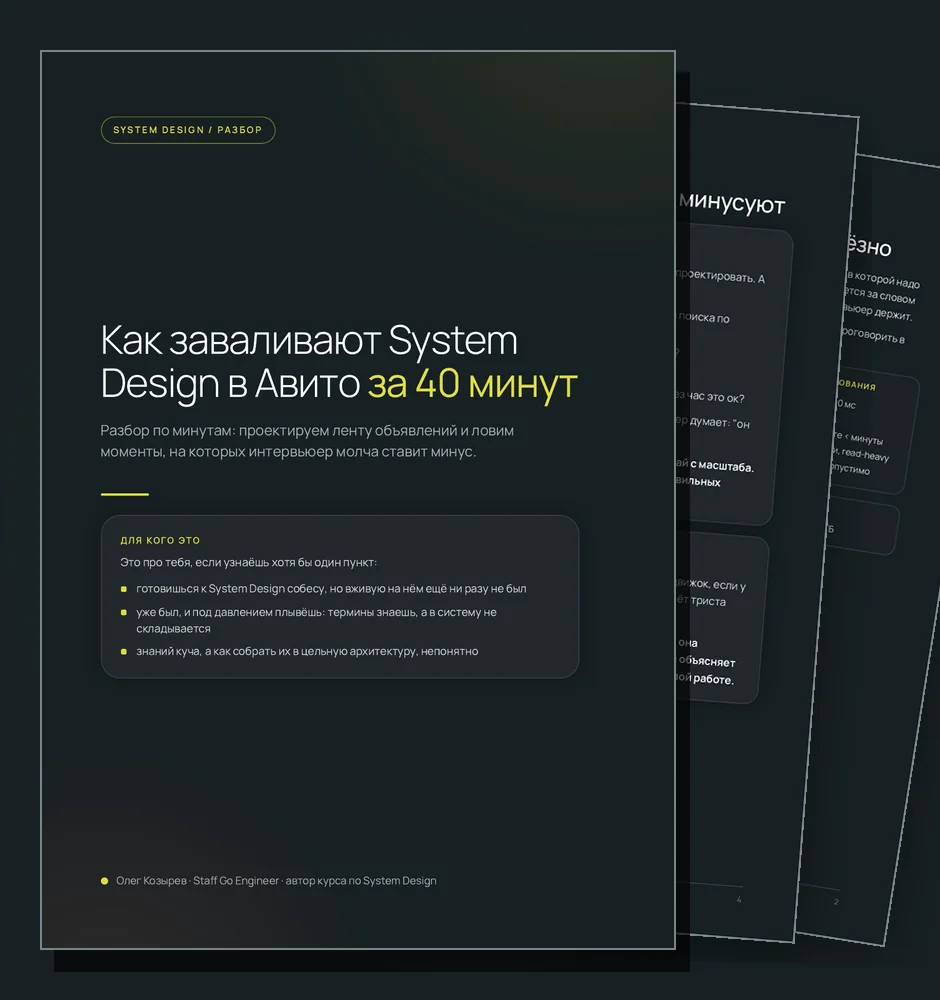
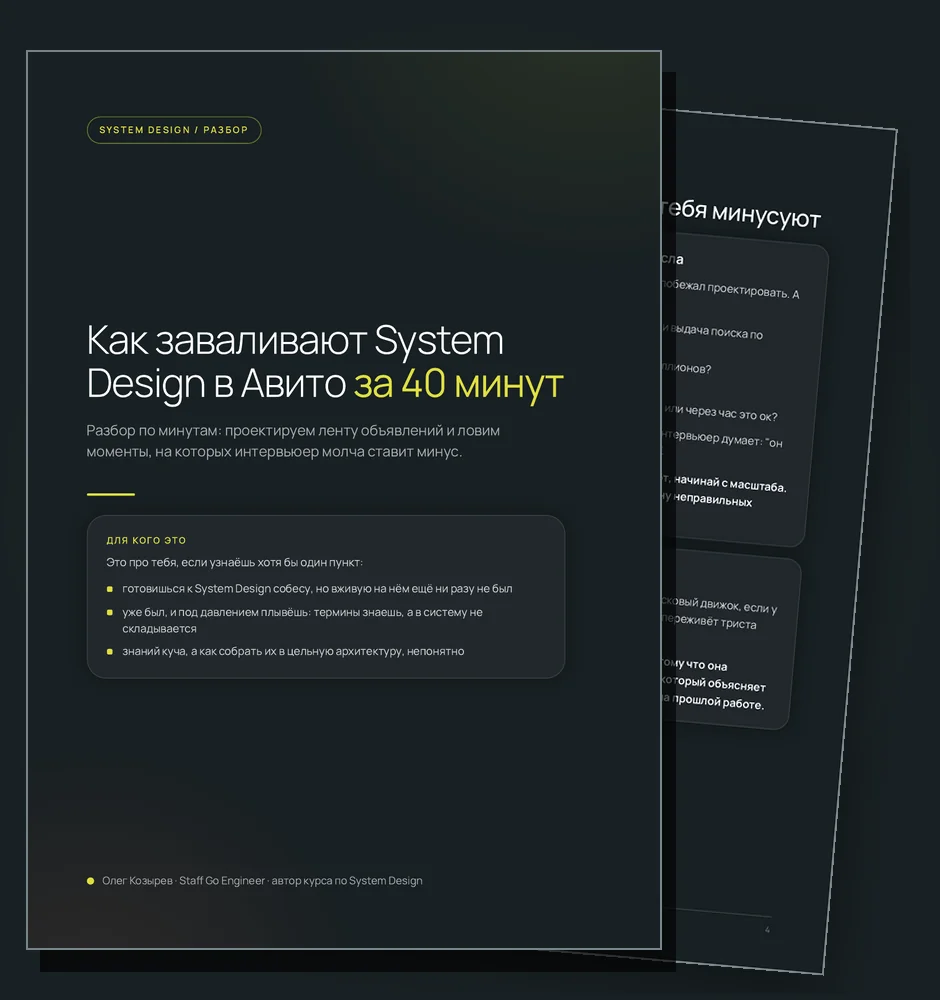
Выравнивание результатов, веер из двух страниц и SEO-обвязка
Результаты в карточках прижаты к низу: колонка текста тянется
на всю высоту, поэтому у соседей по ряду строки встают на одном
уровне независимо от длины описания.

Веер: третья страница упиралась в край вертикального кадра
и обрезалась. Осталось две, вторая сдвинута правее, текста
на ней видно больше.

Подзаголовок первого экрана разбит на два предложения: одной
строкой он читался тяжело. Перенос показывается только
на широких экранах.

SEO. Заголовок вкладки переписан под поисковый запрос, крючок
переехал в og-теги, где решает CTR при отправке ссылки.
Описание уложено в 157 символов. Добавлены robots и хлебные
крошки, микроразметка собрана в граф: LearningResource с темами
и аудиторией, Person с профилями, BreadcrumbList. og-картинка
пересобрана под новый первый экран, старая осталась от
горизонтального веера.

Обновлены дата в sitemap, описания в llms.txt и llms-full.txt,
карточка в каталоге.

diff --git a/sd-anatomy/index.html b/sd-anatomy/index.html
@@ -20,25 +20,30 @@
   <!-- /Yandex.Metrika counter -->
   <!-- TGTrack: Откуда Подписки -->
   <script src="https://api.tgtrack.ru/API/landing_script/v1/?linkID=682732c86bc8d9&type=ya&counterID=96022201" type="text/javascript" defer></script>
-  <title>Как успешно завалить System Design собес за 40 минут</title>
-  <meta name="description" content="Разбор провального System Design собеса: 7 самых частых ошибок, за которые снижают оценку, и список, чтобы проверить себя. Бесплатно.">
-  <meta name="keywords" content="system design, систем дизайн, собеседование, system design interview, подготовка к собесу, авито, лента объявлений, шардирование, кэш, архитектура, backend">
+  <!-- Заголовок вкладки работает на поиск: в нём запрос, по которому ищут.
+       Крючок из первого экрана живёт в og-тегах, где решает CTR в мессенджерах. -->
+  <title>Разбор System Design собеседования: 7 частых ошибок · бесплатно</title>
+  <meta name="description" content="Бесплатный разбор реального System Design собеседования по минутам: 7 ошибок, из-за которых заваливают секцию, и чек-лист для самопроверки. PDF на 8 страниц.">
+  <meta name="keywords" content="system design собеседование, разбор system design интервью, ошибки на system design, подготовка к секции system design, систем дизайн собес, system design interview на русском, чек-лист system design, capacity planning на собеседовании, backend собеседование">
   <meta name="author" content="Олег Козырев">
+  <meta name="robots" content="index, follow, max-image-preview:large, max-snippet:-1">
   <link rel="icon" href="/favicon.svg" type="image/svg+xml">
   <link rel="canonical" href="https://guide.olezhek28.courses/sd-anatomy/">
-  <meta property="og:title" content="Как успешно завалить System Design собес за 40 минут">
-  <meta property="og:description" content="Разбор провального собеса: 7 самых частых ошибок, за которые снижают оценку, и список, чтобы проверить себя. Бесплатно.">
-  <meta property="og:type" content="website">
+  <meta property="og:title" content="Как успешно завалить System Design собес за 40 минут?">
+  <meta property="og:description" content="Разбор реального собеса в Авито по минутам: 7 ошибок, из-за которых заваливают секцию, и чек-лист проверить себя. Бесплатно.">
+  <meta property="og:type" content="article">
   <meta property="og:url" content="https://guide.olezhek28.courses/sd-anatomy/">
   <meta property="og:image" content="https://guide.olezhek28.courses/sd-anatomy/og-image.jpg">
   <meta property="og:image:width" content="1200">
   <meta property="og:image:height" content="630">
+  <meta property="og:image:alt" content="Разбор System Design собеседования: обложка и страницы PDF">
   <meta property="og:locale" content="ru_RU">
   <meta property="og:site_name" content="Олег Козырев · Гайды">
   <meta name="twitter:card" content="summary_large_image">
-  <meta name="twitter:title" content="Как успешно завалить System Design собес за 40 минут">
-  <meta name="twitter:description" content="Разбор провального собеса: 7 самых частых ошибок, за которые снижают оценку, и список, чтобы проверить себя. Бесплатно.">
+  <meta name="twitter:title" content="Как успешно завалить System Design собес за 40 минут?">
+  <meta name="twitter:description" content="Разбор реального собеса в Авито по минутам: 7 ошибок, из-за которых заваливают секцию, и чек-лист проверить себя. Бесплатно.">
   <meta name="twitter:image" content="https://guide.olezhek28.courses/sd-anatomy/og-image.jpg">
+  <meta name="twitter:image:alt" content="Разбор System Design собеседования: обложка и страницы PDF">
   <link rel="preconnect" href="https://fonts.googleapis.com">
   <link rel="preconnect" href="https://fonts.gstatic.com" crossorigin>
   <link rel="preload" as="image" href="hero.webp" type="image/webp" fetchpriority="high">
@@ -47,27 +52,65 @@
   <script type="application/ld+json">
   {
     "@context": "https://schema.org",
-    "@type": "LearningResource",
-    "name": "Как успешно завалить System Design собес за 40 минут",
-    "description": "Разбор провального System Design собеса: какие требования выяснить, как прикинуть нагрузку, как выглядит схема, 7 частых ошибок и список для самопроверки.",
-    "learningResourceType": "Guide",
-    "educationalLevel": "Intermediate",
-    "isAccessibleForFree": true,
-    "inLanguage": "ru",
-    "url": "https://guide.olezhek28.courses/sd-anatomy/",
-    "image": "https://guide.olezhek28.courses/sd-anatomy/og-image.jpg",
-    "author": {
-      "@type": "Person",
-      "name": "Олег Козырев",
-      "jobTitle": "Staff Engineer",
-      "url": "https://guide.olezhek28.courses"
-    },
-    "offers": {
-      "@type": "Offer",
-      "price": "0",
-      "priceCurrency": "RUB",
-      "availability": "https://schema.org/InStock"
-    }
+    "@graph": [
+      {
+        "@type": "LearningResource",
+        "@id": "https://guide.olezhek28.courses/sd-anatomy/#guide",
+        "name": "Анатомия провалённого System Design собеседования",
+        "alternateName": ["Разбор System Design собеса", "Как заваливают System Design интервью"],
+        "headline": "Как успешно завалить System Design собес за 40 минут",
+        "description": "Разбор реального System Design собеседования по минутам на задаче «спроектируй ленту объявлений»: какие требования выяснить до проектирования, как прикинуть нагрузку, как выглядит ожидаемая схема, 7 ошибок, из-за которых заваливают секцию, и чек-лист для самопроверки.",
+        "learningResourceType": "Guide",
+        "educationalLevel": "Intermediate",
+        "teaches": [
+          "Что выяснить про систему до начала проектирования",
+          "Как прикинуть нагрузку на сервис",
+          "Из каких частей собирается лента объявлений",
+          "Семь ошибок, из-за которых снижают оценку на секции System Design"
+        ],
+        "educationalAudience": {
+          "@type": "EducationalAudience",
+          "educationalRole": "student",
+          "audienceType": "Backend-разработчики уровня middle, готовящиеся к секции System Design"
+        },
+        "inLanguage": "ru",
+        "isAccessibleForFree": true,
+        "url": "https://guide.olezhek28.courses/sd-anatomy/",
+        "image": "https://guide.olezhek28.courses/sd-anatomy/og-image.jpg",
+        "encodingFormat": "application/pdf",
+        "numberOfPages": 8,
+        "author": {"@id": "https://guide.olezhek28.courses/sd-anatomy/#oleg"},
+        "publisher": {"@id": "https://guide.olezhek28.courses/sd-anatomy/#oleg"},
+        "offers": {
+          "@type": "Offer",
+          "price": "0",
+          "priceCurrency": "RUB",
+          "availability": "https://schema.org/InStock"
+        }
+      },
+      {
+        "@type": "Person",
+        "@id": "https://guide.olezhek28.courses/sd-anatomy/#oleg",
+        "name": "Олег Козырев",
+        "alternateName": "Oleg Kozyrev",
+        "jobTitle": "Staff Engineer",
+        "description": "Staff-инженер с 8+ годами коммерческого опыта на Go. Работал в Т-Банке, Авито и Ozon Tech, преподавал в школе Route 256. Проходит и проводит секции System Design.",
+        "knowsAbout": ["System Design", "Go", "Микросервисы", "Архитектура сервисов", "Технические собеседования"],
+        "url": "https://guide.olezhek28.courses/",
+        "sameAs": [
+          "https://t.me/olezhek28go",
+          "https://www.youtube.com/@olezhek28go",
+          "https://www.linkedin.com/in/olezhek28"
+        ]
+      },
+      {
+        "@type": "BreadcrumbList",
+        "itemListElement": [
+          {"@type": "ListItem", "position": 1, "name": "Гайды", "item": "https://guide.olezhek28.courses/"},
+          {"@type": "ListItem", "position": 2, "name": "Разбор System Design собеседования", "item": "https://guide.olezhek28.courses/sd-anatomy/"}
+        ]
+      }
+    ]
   }
   </script>
   <style>
@@ -378,6 +421,14 @@
       align-items: center;
     }
 
+    /* колонка текста тянется на всю высоту карточки: результаты
+       у соседей по ряду выстраиваются на одном уровне */
+    .inside__body {
+      display: flex;
+      flex-direction: column;
+      min-width: 0;
+    }
+
     .inside__title {
       font-size: 19px;
       font-weight: 700;
@@ -393,8 +444,8 @@
       display: flex;
       gap: 10px;
       align-items: baseline;
-      margin-top: 16px;
-      padding-top: 14px;
+      margin-top: auto;
+      padding-top: 16px;
       border-top: 1px solid rgba(223,223,65,0.28);
       font-size: 14px;
       font-weight: 600;
@@ -848,6 +899,7 @@
       .hero { padding: 120px 0 60px; }
       .hero__title { font-size: 28px; }
       .hero__desc { font-size: 14px; }
+      .hero__br { display: none; }
 
 
       .section__title { font-size: 24px; }
@@ -953,7 +1005,7 @@
         <div class="hero__content">
           <div class="hero__badge">Бесплатно</div>
           <h1 class="hero__title">Как успешно завалить System Design собес <span>за&nbsp;40&nbsp;минут?</span></h1>
-          <p class="hero__desc">На&nbsp;реальном собесе в&nbsp;Авито разбери 7&nbsp;ошибок, из-за которых многие заваливают секцию, и&nbsp;проверь, какие делаешь ты</p>
+          <p class="hero__desc">На&nbsp;примере реального собеса в&nbsp;Авито разбери 7&nbsp;ошибок, из-за которых многие заваливают секцию.<br class="hero__br"> И&nbsp;проверь, какие из&nbsp;них совершаешь ты</p>
           <a href="#cta" class="btn btn--primary">Забрать разбор бесплатно</a>
         </div>
         <div class="hero__image">
@@ -1026,7 +1078,7 @@
             </div>
             <span class="viz__cap">нарисовал 3 части, а&nbsp;их&nbsp;<b>больше семи</b></span>
           </div>
-          <div>
+          <div class="inside__body">
             <h3 class="inside__title">Почему простая на&nbsp;вид задача завалит тебя ещё на&nbsp;старте</h3>
             <div class="inside__desc">Многие сразу бегут проектировать, а&nbsp;за&nbsp;короткой формулировкой задачи может прятаться система в&nbsp;разы больше</div>
             <div class="inside__result">не&nbsp;бросаешься проектировать, не&nbsp;поняв размер задачи</div>
@@ -1042,7 +1094,7 @@
               <div><i></i>нагрузка</div>
             </div>
           </div>
-          <div>
+          <div class="inside__body">
             <h3 class="inside__title">Какие требования бывают и&nbsp;как считать нагрузку</h3>
             <div class="inside__desc">Что стоит за&nbsp;каждым требованием и&nbsp;как посчитать нагрузку, которую будет держать сервис</div>
             <div class="inside__result">считаешь нагрузку сам, а&nbsp;не&nbsp;называешь числа наугад</div>
@@ -1054,7 +1106,7 @@
             <div class="viz-nodes"><span>Gateway</span><span>Feed</span><span>Кэш</span><span>Ранжирование</span><span>Поиск</span><span>CDN</span></div>
             <span class="viz__cap"><b>шесть блоков</b> и связи между ними</span>
           </div>
-          <div>
+          <div class="inside__body">
             <h3 class="inside__title">Как выглядит схема, которую от&nbsp;тебя ждут</h3>
             <div class="inside__desc">Готовая схема с&nbsp;доски: из&nbsp;каких частей собирается такая система, зачем нужна каждая и&nbsp;как они связаны между собой</div>
             <div class="inside__result">есть с&nbsp;чем сверить свою схему</div>
@@ -1072,7 +1124,7 @@
               <span class="viz-clock__label"><b>первые 5 минут</b>из сорока</span>
             </div>
           </div>
-          <div>
+          <div class="inside__body">
             <h3 class="inside__title">Готовый скрипт на&nbsp;первые пять минут</h3>
             <div class="inside__desc">Четыре вопроса, которые надо задать до&nbsp;того, как нарисуешь первую стрелку</div>
             <div class="inside__result">знаешь, что спросить, чтобы получить эти числа</div>
@@ -1080,7 +1132,7 @@
         </div>
 
         <div class="inside__item inside__item--wide fade-up">
-          <div>
+          <div class="inside__body">
             <h3 class="inside__title">Проверь, на&nbsp;чём валишься именно ты</h3>
             <div class="inside__desc">Список из&nbsp;семи пунктов, из-за которых заваливают секцию. Пройдись и&nbsp;честно отметь свои</div>
           </div>

diff --git a/index.html b/index.html
@@ -241,7 +241,7 @@
             <div class="guide__body">
               <div class="guide__badge">Бесплатно</div>
               <div class="guide__title">Как успешно завалить System Design собес</div>
-              <div class="guide__desc">Разбор провального собеса: 7 самых частых ошибок, за которые снижают оценку на секции, и список, чтобы проверить себя.</div>
+              <div class="guide__desc">Разбор реального собеса по минутам: 7 ошибок, из-за которых заваливают секцию, и чек-лист, чтобы проверить себя. PDF на 8 страниц.</div>
             </div>
           </a>
 
